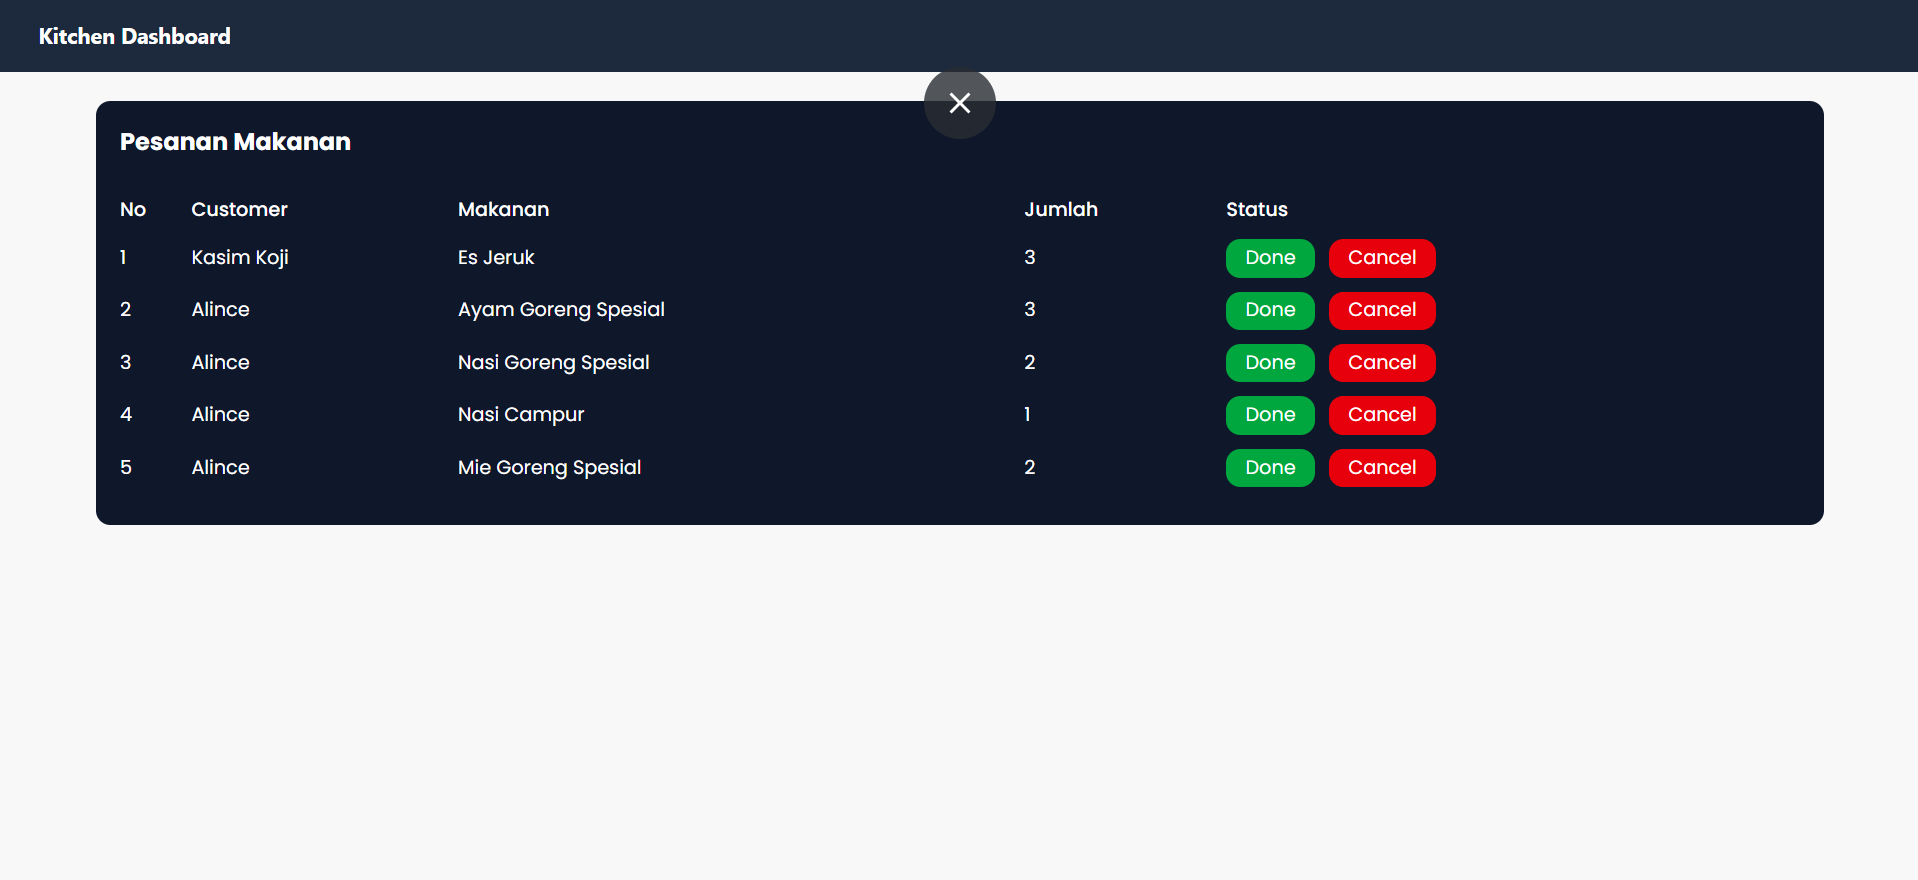
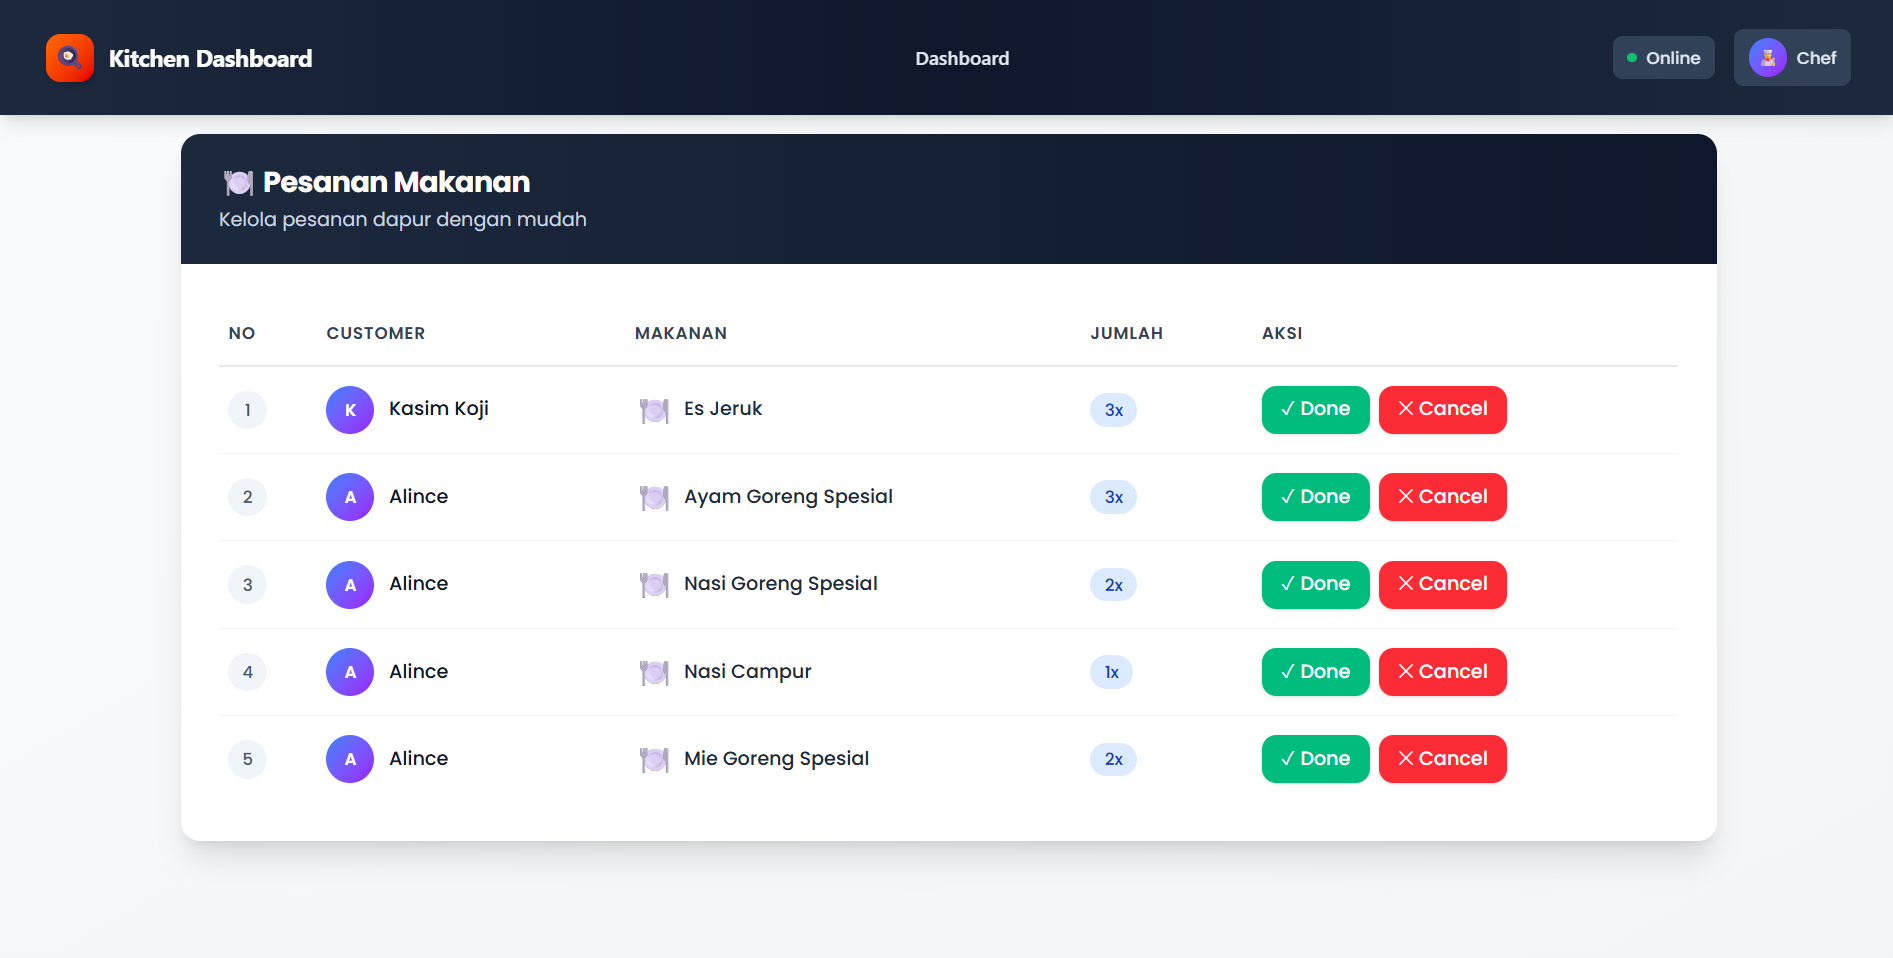
rubah kitchen

diff --git a/react/src/components/Kitchen/KitchenContainerList.jsx b/react/src/components/Kitchen/KitchenContainerList.jsx
@@ -38,46 +38,117 @@ function KitchenContainerList() {
   };
 
   return (
-    <div className="w-full h-full">
-      <div
-        className={`bg-slate-900 w-[90%] mt-6 rounded-xl mx-auto ${data.length !== 0 ? "h-auto" : "h-96"} p-5`}
-      >
-        <h2 className="text-white font-bold text-xl">Pesanan Makanan</h2>
-        <table className="w-full mt-5 text-white text-left gap-5 border-separate border-spacing-y-3">
-          <tr>
-            <th className="font-medium">No</th>
-            <th className="font-medium">Customer</th>
-            <th className="font-medium">Makanan</th>
-            <th className="font-medium">Jumlah</th>
-            <th className="font-medium">Status</th>
-          </tr>
-          {data.length !== 0 ? (
-            data.map((items, i) => (
-              <tr key={i}>
-                <td>{i + 1}</td>
-                <td>{items.customer}</td>
-                <td>{items.makanan}</td>
-                <td>{items.jumlah}</td>
-                <td className="flex gap-3 items-center">
-                  <Button
-                    teks="Done"
-                    warna="bg-green-600"
-                    diKlik={() => handleAction(items.id, "ready")}
-                  />
-                  <Button
-                    teks="Cancel"
-                    warna="bg-red-600"
-                    diKlik={() => handleAction(items.id, "cancel")}
-                  />
-                </td>
-              </tr>
-            ))
-          ) : (
-            <tr>
-              <td>Data Tidak DItemukan...</td>
-            </tr>
-          )}
-        </table>
+    <div className="w-full min-h-screen bg-gradient-to-br from-gray-50 to-gray-100 p-4">
+      <div className="max-w-7xl mx-auto">
+        <div className="bg-white rounded-2xl shadow-xl overflow-hidden">
+          {/* Header */}
+          <div className="bg-gradient-to-r from-slate-800 to-slate-900 px-8 py-6">
+            <h2 className="text-white font-bold text-2xl tracking-tight">
+              🍽 Pesanan Makanan
+            </h2>
+            <p className="text-slate-300 mt-1">
+              Kelola pesanan dapur dengan mudah
+            </p>
+          </div>
+
+          {/* Content */}
+          <div className="p-8">
+            {data.length !== 0 ? (
+              <div className="overflow-x-auto">
+                <table className="w-full">
+                  <thead>
+                    <tr className="border-b-2 border-gray-200">
+                      <th className="text-left py-4 px-2 font-semibold text-gray-700 text-sm uppercase tracking-wider">
+                        No
+                      </th>
+                      <th className="text-left py-4 px-4 font-semibold text-gray-700 text-sm uppercase tracking-wider">
+                        Customer
+                      </th>
+                      <th className="text-left py-4 px-4 font-semibold text-gray-700 text-sm uppercase tracking-wider">
+                        Makanan
+                      </th>
+                      <th className="text-left py-4 px-4 font-semibold text-gray-700 text-sm uppercase tracking-wider">
+                        Jumlah
+                      </th>
+                      <th className="text-left py-4 px-4 font-semibold text-gray-700 text-sm uppercase tracking-wider">
+                        Aksi
+                      </th>
+                    </tr>
+                  </thead>
+                  <tbody className="divide-y divide-gray-100">
+                    {data.map((items, i) => (
+                      <tr
+                        key={i}
+                        className="hover:bg-gray-50 transition-colors duration-200"
+                      >
+                        <td className="py-4 px-2">
+                          <div className="w-8 h-8 bg-slate-100 rounded-full flex items-center justify-center">
+                            <span className="text-sm font-medium text-slate-600">
+                              {i + 1}
+                            </span>
+                          </div>
+                        </td>
+                        <td className="py-4 px-4">
+                          <div className="flex items-center">
+                            <div className="w-10 h-10 bg-gradient-to-br from-blue-500 to-purple-600 rounded-full flex items-center justify-center mr-3">
+                              <span className="text-white font-semibold text-sm">
+                                {items.customer.charAt(0).toUpperCase()}
+                              </span>
+                            </div>
+                            <div>
+                              <p className="font-medium text-gray-900">
+                                {items.customer}
+                              </p>
+                            </div>
+                          </div>
+                        </td>
+                        <td className="py-4 px-4">
+                          <div className="flex items-center">
+                            <span className="text-2xl mr-2">🍽</span>
+                            <span className="font-medium text-gray-800">
+                              {items.makanan}
+                            </span>
+                          </div>
+                        </td>
+                        <td className="py-4 px-4">
+                          <span className="inline-flex items-center px-3 py-1 rounded-full text-sm font-medium bg-blue-100 text-blue-800">
+                            {items.jumlah}x
+                          </span>
+                        </td>
+                        <td className="py-4 px-4">
+                          <div className="flex gap-2">
+                            <Button
+                              teks="✓ Done"
+                              warna="bg-emerald-500 hover:bg-emerald-600 text-white px-4 py-2 rounded-lg font-medium transition-colors duration-200 shadow-sm"
+                              diKlik={() => handleAction(items.id, "ready")}
+                            />
+                            <Button
+                              teks="✕ Cancel"
+                              warna="bg-red-500 hover:bg-red-600 text-white px-4 py-2 rounded-lg font-medium transition-colors duration-200 shadow-sm"
+                              diKlik={() => handleAction(items.id, "cancel")}
+                            />
+                          </div>
+                        </td>
+                      </tr>
+                    ))}
+                  </tbody>
+                </table>
+              </div>
+            ) : (
+              <div className="text-center py-16">
+                <div className="w-24 h-24 mx-auto mb-6 bg-gray-100 rounded-full flex items-center justify-center">
+                  <span className="text-4xl">🍽</span>
+                </div>
+                <h3 className="text-xl font-semibold text-gray-700 mb-2">
+                  Tidak Ada Pesanan
+                </h3>
+                <p className="text-gray-500">
+                  Belum ada pesanan makanan yang perlu diproses saat ini.
+                </p>
+              </div>
+            )}
+          </div>
+        </div>
       </div>
     </div>
   );

diff --git a/react/src/components/Kitchen/KitchenNav.jsx b/react/src/components/Kitchen/KitchenNav.jsx
@@ -9,8 +9,11 @@ import {
 
 function NavItem({ label }) {
   return (
-    <a href="#">
-      <Typography as="li" className="p-1 font-medium text-black">
+    <a href="#" className="group">
+      <Typography
+        as="li"
+        className="p-2 font-medium text-slate-200 hover:text-white transition-colors duration-200 group-hover:bg-slate-700 rounded-lg"
+      >
         {label}
       </Typography>
     </a>
@@ -19,10 +22,8 @@ function NavItem({ label }) {
 
 function NavList() {
   return (
-    <ul className="mb-4 mt-2 flex flex-col gap-3 lg:mb-0 lg:mt-0 lg:flex-row lg:items-center lg:gap-8">
-      <NavItem label="About Us" />
-      <NavItem label="Pricing" />
-      <NavItem label="Contact Us" />
+    <ul className="mb-4 mt-2 flex flex-col gap-2 lg:mb-0 lg:mt-0 lg:flex-row lg:items-center lg:gap-6">
+      <NavItem label="Dashboard" />
     </ul>
   );
 }
@@ -39,16 +40,112 @@ export function KitchenNav() {
   }, []);
 
   return (
-    <Navbar color="transparent" fullWidth className="bg-slate-800">
-      <div className="container mx-auto flex items-center justify-between text-blue-gray-900">
-        <Typography
-          as="a"
-          href="#"
-          className="mr-4 cursor-pointer text-lg font-bold text-white"
+    <Navbar
+      color="transparent"
+      fullWidth
+      className="bg-gradient-to-r from-slate-800 via-slate-900 to-slate-800 shadow-lg border-0 backdrop-blur-sm"
+    >
+      <div className="container mx-auto flex items-center justify-between text-blue-gray-900 px-4 py-2">
+        {/* Logo/Brand */}
+        <div className="flex items-center">
+          <div className="w-10 h-10 bg-gradient-to-br from-orange-500 to-red-600 rounded-xl flex items-center justify-center mr-3 shadow-md">
+            <span className="text-white text-xl font-bold">🍳</span>
+          </div>
+          <Typography
+            as="a"
+            href="#"
+            className="cursor-pointer text-xl font-bold text-white tracking-tight hover:text-orange-300 transition-colors duration-200"
+          >
+            Kitchen Dashboard
+          </Typography>
+        </div>
+
+        {/* Desktop Navigation */}
+        <div className="hidden lg:block">
+          <NavList />
+        </div>
+
+        {/* Right Side Actions */}
+        <div className="hidden lg:flex items-center gap-4">
+          {/* Status Indicator */}
+          <div className="flex items-center gap-2 bg-slate-700 px-3 py-2 rounded-lg">
+            <div className="w-2 h-2 bg-green-400 rounded-full animate-pulse"></div>
+            <span className="text-slate-200 text-sm font-medium">Online</span>
+          </div>
+
+          {/* User Profile */}
+          <div className="flex items-center gap-2 bg-slate-700 px-3 py-2 rounded-lg hover:bg-slate-600 transition-colors duration-200 cursor-pointer">
+            <div className="w-8 h-8 bg-gradient-to-br from-blue-500 to-purple-600 rounded-full flex items-center justify-center">
+              <span className="text-white font-semibold text-sm">👨🍳</span>
+            </div>
+            <span className="text-slate-200 text-sm font-medium">Chef</span>
+          </div>
+        </div>
+
+        {/* Mobile Menu Button */}
+        <IconButton
+          variant="text"
+          className="ml-auto h-6 w-6 text-inherit hover:bg-slate-700 focus:bg-slate-700 active:bg-slate-700 lg:hidden"
+          ripple={false}
+          onClick={handleOpen}
         >
-          Kitchen Dashboard
-        </Typography>
+          {open ? (
+            <svg
+              xmlns="http://www.w3.org/2000/svg"
+              fill="none"
+              className="h-6 w-6 text-white"
+              viewBox="0 0 24 24"
+              stroke="currentColor"
+              strokeWidth={2}
+            >
+              <path
+                strokeLinecap="round"
+                strokeLinejoin="round"
+                d="M6 18L18 6M6 6l12 12"
+              />
+            </svg>
+          ) : (
+            <svg
+              xmlns="http://www.w3.org/2000/svg"
+              className="h-6 w-6 text-white"
+              fill="none"
+              stroke="currentColor"
+              strokeWidth={2}
+            >
+              <path
+                strokeLinecap="round"
+                strokeLinejoin="round"
+                d="M4 6h16M4 12h16M4 18h16"
+              />
+            </svg>
+          )}
+        </IconButton>
       </div>
+
+      {/* Mobile Menu */}
+      <Collapse open={open}>
+        <div className="container mx-auto px-4 pb-4">
+          <NavList />
+
+          {/* Mobile Status & Profile */}
+          <div className="flex flex-col gap-3 mt-4 pt-4 border-t border-slate-700">
+            <div className="flex items-center justify-between">
+              <div className="flex items-center gap-2">
+                <div className="w-2 h-2 bg-green-400 rounded-full animate-pulse"></div>
+                <span className="text-slate-200 text-sm font-medium">
+                  Kitchen Online
+                </span>
+              </div>
+              <div className="flex items-center gap-2">
+                <div className="w-8 h-8 bg-gradient-to-br from-blue-500 to-purple-600 rounded-full flex items-center justify-center">
+                  <span className="text-white font-semibold text-sm">👨🍳</span>
+                </div>
+                <span className="text-slate-200 text-sm font-medium">Chef</span>
+              </div>
+            </div>
+          </div>
+        </div>
+      </Collapse>
     </Navbar>
   );
 }
